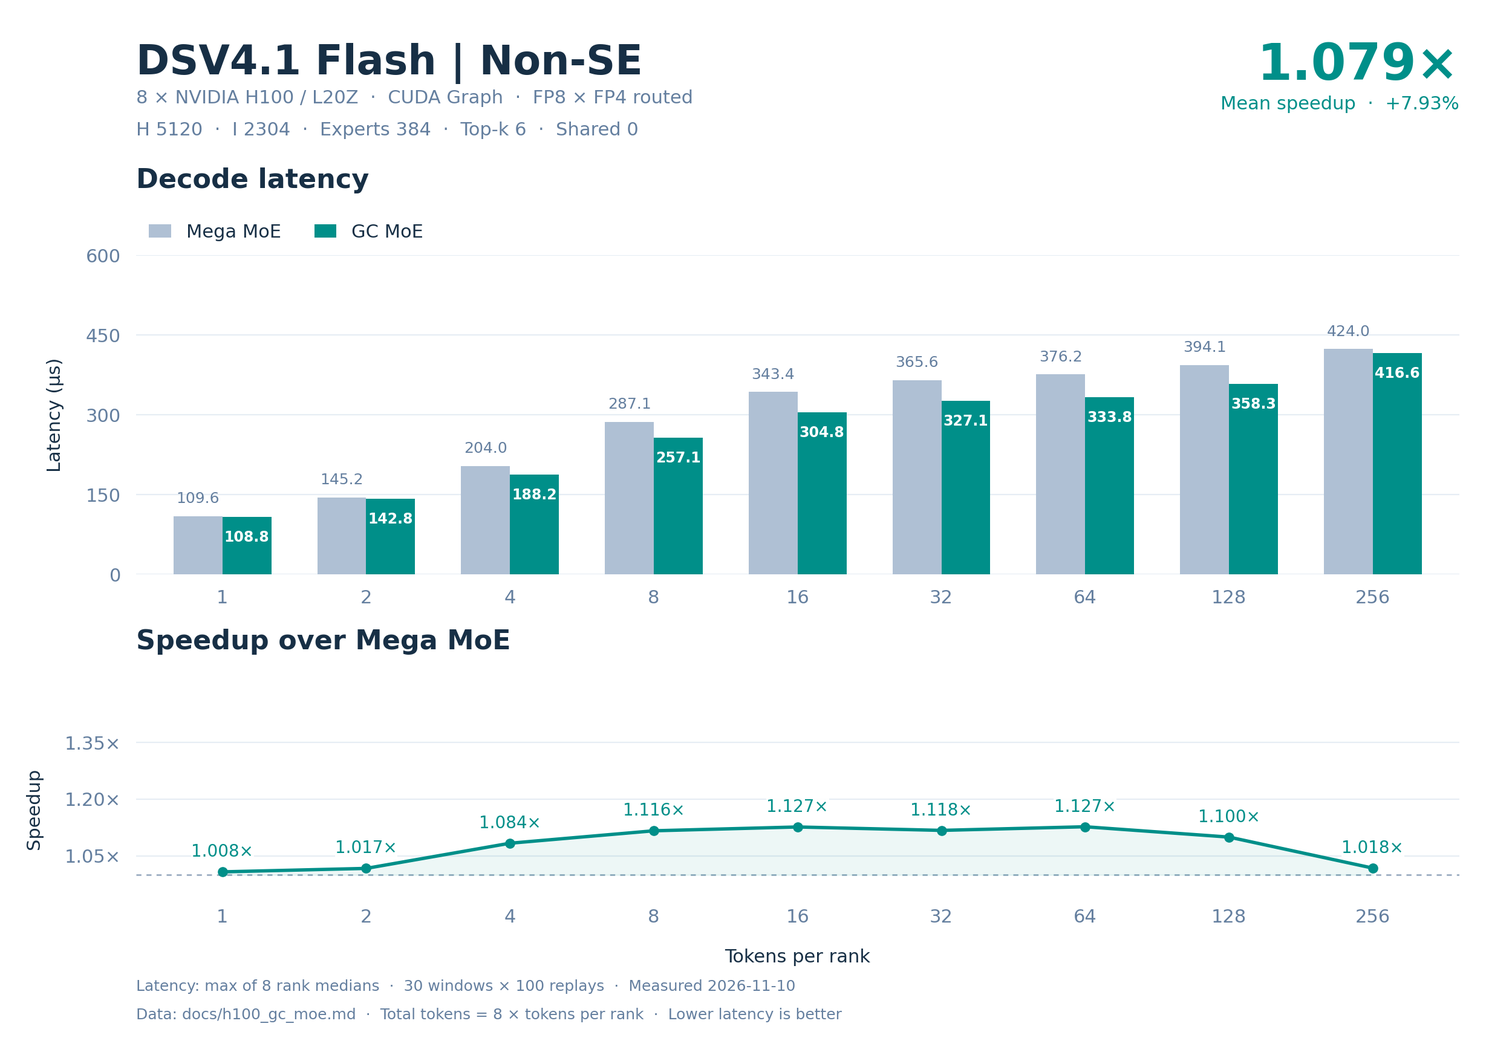
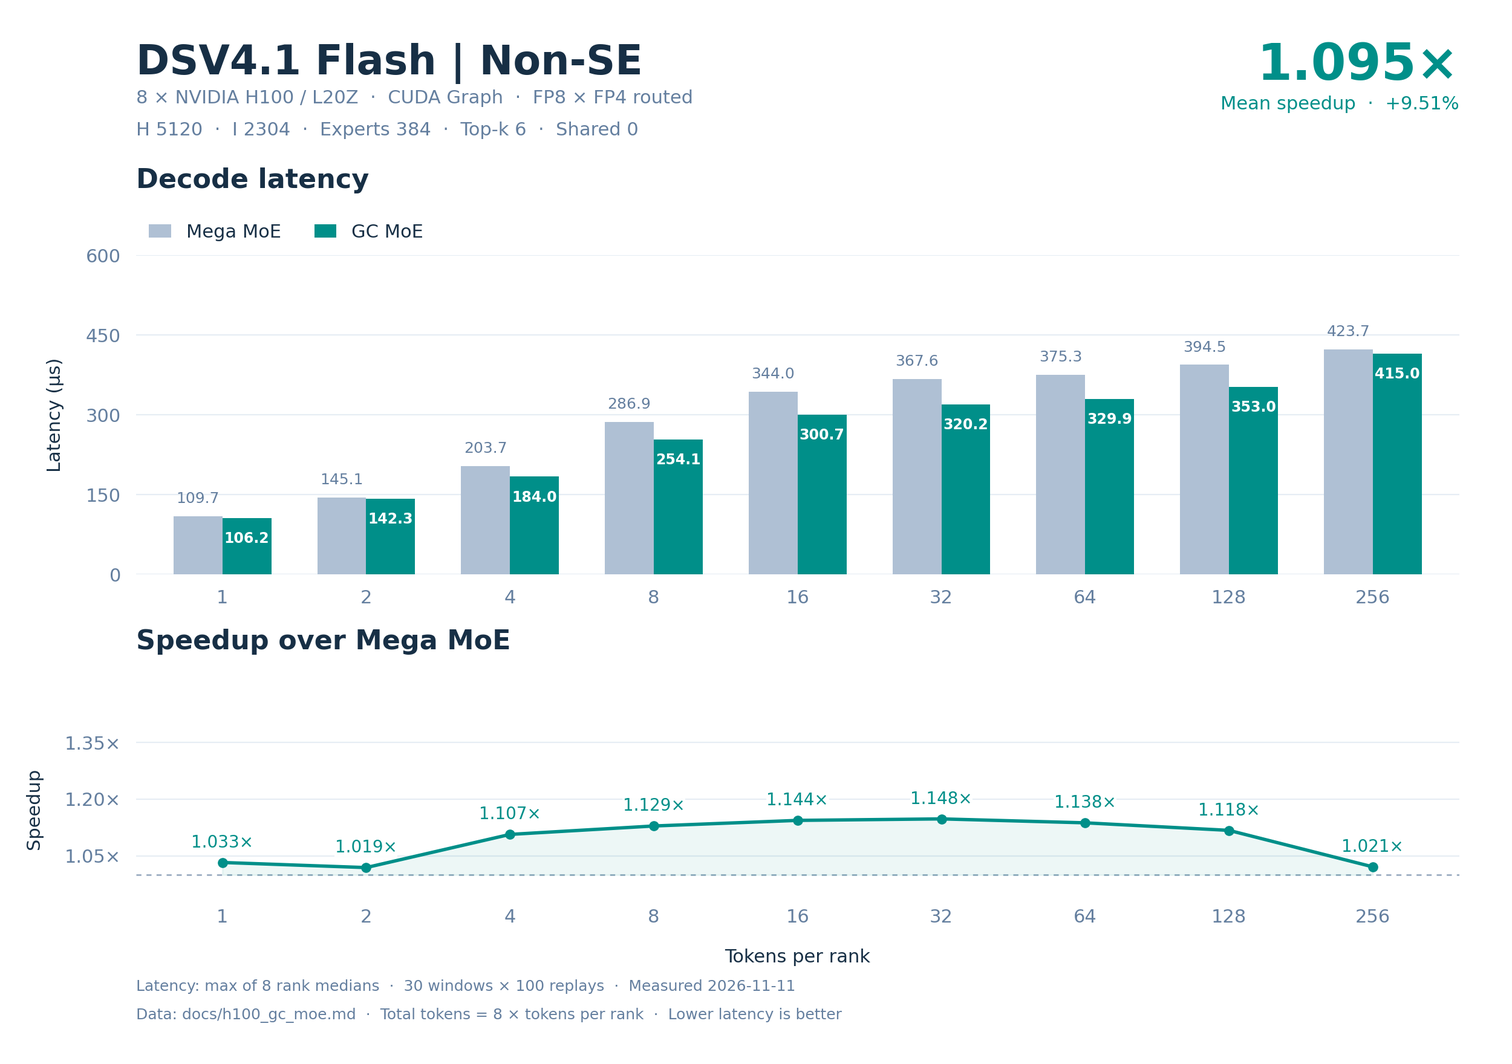
perf(sm90): coalesce routed weight stage loads

diff --git a/gc_moe/jit_kernels/impls/sm90_fp8_fp4_gc_moe.py b/gc_moe/jit_kernels/impls/sm90_fp8_fp4_gc_moe.py
@@ -86,7 +86,7 @@ _POINTER_TYPES = (Uint8, Uint64, BFloat16, Uint8, Uint8, Float32,
                   Uint8, Uint8, Float32, Uint32, Uint8, Float32, Uint8, Float32)
 
 
-def _role_specs(config, layout, schedule, has_stats):
+def _role_specs(config, layout, schedule, has_stats, weight_records=(False, False)):
     routed = get_routed_role_config(config, schedule)
     shared = get_shared_role_config(schedule) if config.shared_experts else None
     split = bool(config.shared_experts and schedule.split_shared)
@@ -111,7 +111,8 @@ def _role_specs(config, layout, schedule, has_stats):
                                            role_schedule.grids[2]))
         kernel = SM90GCMoERoleKernel(role_config, layout, role, role_schedule, has_stats,
                                     routed_n_factor=routed.n_factor if role == 2 else 1,
-                                    routed_stage_count=routed.stage_count_override if role == 2 else 0)
+                                    routed_stage_count=routed.stage_count_override if role == 2 else 0,
+                                    w1_is_record=weight_records[0], w2_is_record=weight_records[1])
         wait_for = ((4,) if split and (role == 2 or (role == 5 and not stream_shared)) else
                     ((4,) if config.shared_experts and role == 2 and schedule.tile_m >= 32 else ()))
         launch = (role, role_schedule.smem[index], role_schedule.threads[index],
@@ -176,8 +177,9 @@ def prepare_role_binaries(config, y, w1, w2, buffer, stats=None, context=None,
     # CUDA addresses. Resident JIT code does not need filesystem scans on each
     # call. CuTe resolves its compiler environment at initialization; identity
     # is audited on preparation/compilation misses, not by rescanning os.environ.
+    weight_records = (len(w1) == 2, len(w2) == 2)
     key = (config, buffer.layout, stats is not None, context.dispatch_sms,
-           context.compute_sms, context.schedule_policy)
+           context.compute_sms, context.schedule_policy, weight_records)
     prepared = _CACHE.get(key)
     if prepared is None:
         with COMPILE_LOCK:
@@ -185,15 +187,22 @@ def prepare_role_binaries(config, y, w1, w2, buffer, stats=None, context=None,
             if prepared is None:
                 schedule = get_sm90_role_config(config, context)
                 identity = _compiler_identity('sm_90a')
-                specs = _role_specs(config, buffer.layout, schedule, stats is not None)
+                specs = _role_specs(config, buffer.layout, schedule, stats is not None,
+                                    weight_records)
                 binaries = _get_or_compile_binaries(_binary_key(identity, specs), identity, specs)
                 prepared = _Prepared(binaries)
                 _CACHE[key] = prepared
+    routed_addresses = []
+    for weight, is_record in zip((w1, w2), weight_records):
+        if is_record:
+            payload = weight[0].data_ptr()
+            routed_addresses.extend((payload, payload + 16384, weight[1].data_ptr()))
+        else:
+            routed_addresses.extend(t.data_ptr() for t in weight)
+    shared_addresses = ([t.data_ptr() for pair in (shared_l1_weights, shared_l2_weights)
+                         for t in pair] if config.shared_experts else [0, 0, 0, 0])
     addresses = [buffer.buffer.data_ptr(), buffer.peer_table.data_ptr(), y.data_ptr(),
-                 *(t.data_ptr() for t in (*w1, *w2)), 0 if stats is None else stats.data_ptr(),
-                 *(t.data_ptr() for pair in (shared_l1_weights, shared_l2_weights) for t in pair)
-                 ] if config.shared_experts else [buffer.buffer.data_ptr(), buffer.peer_table.data_ptr(), y.data_ptr(),
-                 *(t.data_ptr() for t in (*w1, *w2)), 0 if stats is None else stats.data_ptr(), 0, 0, 0, 0]
+                 *routed_addresses, 0 if stats is None else stats.data_ptr(), *shared_addresses]
     arguments = [*(ctypes.c_void_p(p) for p in addresses),
                  ctypes.c_uint32(buffer.rank_idx), ctypes.c_uint32(config.tokens),
                  ctypes.c_float(config.clamp)]

diff --git a/gc_moe/impls/sm90_fp8_fp4_gc_moe.py b/gc_moe/impls/sm90_fp8_fp4_gc_moe.py
@@ -100,8 +100,9 @@ def wait_count(ptr: cute.Pointer, target: Uint32):
 
 class SM90GCMoERoleKernel:
     def __init__(self, config, layout, role, schedule, has_stats, routed_n_factor=1,
-                 routed_stage_count=0):
+                 routed_stage_count=0, w1_is_record=False, w2_is_record=False):
         self.role = role
+        self.w1_is_record, self.w2_is_record = w1_is_record, w2_is_record
         self.direct_route_scan = 0 < config.bound <= 2
         self.ranks, self.local = config.ranks, config.experts // config.ranks
         self.capacity, self.topk = config.capacity, config.topk
@@ -428,14 +429,21 @@ class SM90GCMoERoleKernel:
         k_size = self.hidden if l1 else self.intermediate
         n_size = 2 * self.intermediate if l1 else self.hidden
         input_offset = self.off_l1_acts if l1 else self.off_l2_acts
+        is_record = self.w1_is_record if l1 else self.w2_is_record
+        weight_stride = 16896 if is_record else 16384
+        offset_stride = 16896 if is_record else 512
         stage_base = stage * self.stage_bytes
         if tid == 0:
             bar = cute.recast_ptr(slab + self.smem - 128 + stage * 8, dtype=Uint64)
             cute.arch.mbarrier_arrive_and_expect_tx(bar, 16896 * self.routed_n_factor)
             for sub in cutlass.range_constexpr(self.routed_n_factor):
                 index = (Uint64(expert) * (n_size // 256) + ntile * self.routed_n_factor + sub) * (k_size // 128) + kb
-                bulk_g2s_1d(slab + stage_base + sub * 16384, weights + index * 16384, Uint32(16384), bar)
-                bulk_g2s_1d(slab + stage_base + 16384 * self.routed_n_factor + sub * 512, offsets + index * 512, Uint32(512), bar)
+                if cutlass.const_expr(is_record and self.role == 2 and self.routed_n_factor == 1):
+                    bulk_g2s_1d(slab + stage_base, weights + index * weight_stride, Uint32(16896), bar)
+                else:
+                    # N512 groups both payloads before both exponent blocks.
+                    bulk_g2s_1d(slab + stage_base + sub * 16384, weights + index * weight_stride, Uint32(16384), bar)
+                    bulk_g2s_1d(slab + stage_base + 16384 * self.routed_n_factor + sub * 512, offsets + index * offset_stride, Uint32(512), bar)
         for j in cutlass.range(tid, n * 8, 256):
             row, k = Uint32(j // 8), Uint32((j % 8) * 16)
             size = Uint32(0)
@@ -571,12 +579,18 @@ class SM90GCMoERoleKernel:
         if tid == (0 if self.max_m == 64 else 64):
             k_size = self.hidden if l1 else self.intermediate
             n_size = 2 * self.intermediate if l1 else self.hidden
+            is_record = self.w1_is_record if l1 else self.w2_is_record
+            weight_stride = 16896 if is_record else 16384
+            offset_stride = 16896 if is_record else 512
             stage_base = stage * self.stage_bytes
             full = cute.recast_ptr(slab + self.full_offset + stage * 8, dtype=Uint64)
             cute.arch.mbarrier_arrive_and_expect_tx(full, 16896)
             index = (Uint64(expert) * (n_size // 256) + ntile) * (k_size // 128) + kb
-            bulk_g2s_1d(slab + stage_base, weights + index * 16384, Uint32(16384), full)
-            bulk_g2s_1d(slab + stage_base + 16384, offsets + index * 512, Uint32(512), full)
+            if cutlass.const_expr(is_record and self.role == 2 and self.routed_n_factor == 1):
+                bulk_g2s_1d(slab + stage_base, weights + index * weight_stride, Uint32(16896), full)
+            else:
+                bulk_g2s_1d(slab + stage_base, weights + index * weight_stride, Uint32(16384), full)
+                bulk_g2s_1d(slab + stage_base + 16384, offsets + index * offset_stride, Uint32(512), full)
 
     @cute.jit
     def _stage_activation(self, base: Uint64, slab: cute.Pointer, expert: Uint32,

diff --git a/gc_moe/sm90_gc/__init__.py b/gc_moe/sm90_gc/__init__.py
@@ -92,9 +92,11 @@ def _transform(raw, scale_2=None, paired=False):
     if scale_2 is not None and (scale_2.shape != (e,) or scale_2.dtype != torch.float32
                                or scale_2.device != packed.device):
         raise ValueError('secondary checkpoint scale must be FP32 [E] on the weight device')
-    data = torch.empty((e, n // 256, k // 128, 4, 256, 16), device=packed.device, dtype=torch.int8)
-    # Two 4-bit relative exponents per byte: 512B per (ntile, kb) weight stage.
-    offsets = torch.empty((e, n // 256, k // 128, 128, 4), device=packed.device, dtype=torch.uint8)
+    # One contiguous stage record: unchanged FP4 bytes, then 512B of packed
+    # relative exponents. Views only organize transform writes, with no copy.
+    record = torch.empty((e, n // 256, k // 128, 16896), device=packed.device, dtype=torch.int8)
+    data = record[..., :16384].view(e, n // 256, k // 128, 4, 256, 16)
+    offsets = record[..., 16384:].view(torch.uint8).view(e, n // 256, k // 128, 128, 4)
     secondary = torch.empty(e, device=packed.device, dtype=torch.float32)
     lut = torch.tensor(_DOWNSCALE, dtype=torch.uint8, device='cpu',
                        pin_memory=True).to(packed.device, non_blocking=True)
@@ -136,7 +138,7 @@ def _transform(raw, scale_2=None, paired=False):
         nibbles = (flat[..., 0::2] & 0x0F) | (flat[..., 1::2] << 4)
         offsets[expert].copy_(nibbles.reshape(offsets[expert].shape))
         secondary[expert] = torch.exp2(base.float() - 128) * (1 if scale_2 is None else scale_2[expert])
-    return data, offsets, secondary
+    return record, secondary
 
 
 def transform_weights_for_gc_moe_sm90(l1_weights, l2_weights,

diff --git a/gc_moe/runtime/sm90_gc_moe.py b/gc_moe/runtime/sm90_gc_moe.py
@@ -240,12 +240,17 @@ class _ChildGraph:
                 params.kernel.blockDimY = params.kernel.blockDimZ = 1
                 params.kernel.sharedMemBytes = binary.smem_bytes
                 params.kernel.kernelParams = arguments[index].pointer
-                # Dispatch is an independent root. Compute dependencies retire
-                # shared work or order routed after split shared L2 has started.
-                # Device acquires still protect every dispatch publication.
-                # Finalize/cleanup always joins every local producer.
+                # In the primary context, compute roots wait until every
+                # dispatch CTA has started, without waiting for completion.
+                # Existing shared dependencies carry this order transitively.
+                # Device acquires still protect every dispatch publication;
+                # finalize/cleanup always joins every local producer.
                 prerequisites = getattr(binary, 'wait_for', ())
                 launch_edges = getattr(binary, 'launch_after', ())
+                if (owner.primary_ctx_roles and binary.role in (2, 4, 5)
+                        and not prerequisites and not launch_edges):
+                    launch_edges = ((1, cu.CU_GRAPH_KERNEL_NODE_PORT_LAUNCH_ORDER, 0,
+                                     cu.CUgraphDependencyType.CU_GRAPH_DEPENDENCY_TYPE_PROGRAMMATIC),)
                 launch_roles = tuple(edge[0] for edge in launch_edges)
                 if any(role not in role_nodes for role in (*prerequisites, *launch_roles)):
                     raise ValueError('kernel dependency must reference an earlier graph node')

diff --git a/gc_moe/apis/sm90_gc_moe.py b/gc_moe/apis/sm90_gc_moe.py
@@ -42,11 +42,17 @@ def validate_call(y, w1, w2, buffer, stats, recipe, activation, clamp,
     local = buffer.num_experts // buffer.group.size()
     for name, weight, n, k in (('routed W1', w1, 2 * buffer.intermediate_hidden, buffer.hidden),
                                ('routed W2', w2, buffer.hidden, buffer.intermediate_hidden)):
-        shapes = ((local, n // 256, k // 128, 4, 256, 16), (local, n // 256, k // 128, 128, 4), (local,))
-        if not isinstance(weight, (tuple, list)) or len(weight) != 3:
-            raise ValueError(f'{name} needs the data/offset/secondary tuple from '
+        if not isinstance(weight, (tuple, list)) or len(weight) not in (2, 3):
+            raise ValueError(f'{name} needs the record/secondary or data/offset/secondary tuple from '
                              'transform_weights_for_gc_moe_sm90')
-        for tensor, shape, dtype in zip(weight, shapes, (torch.int8, torch.uint8, torch.float32)):
+        if len(weight) == 2:
+            shapes = ((local, n // 256, k // 128, 16896), (local,))
+            dtypes = (torch.int8, torch.float32)
+        else:
+            shapes = ((local, n // 256, k // 128, 4, 256, 16),
+                      (local, n // 256, k // 128, 128, 4), (local,))
+            dtypes = (torch.int8, torch.uint8, torch.float32)
+        for tensor, shape, dtype in zip(weight, shapes, dtypes):
             if (not isinstance(tensor, torch.Tensor) or tuple(tensor.shape) != shape
                     or tensor.dtype != dtype or tensor.device != device
                     or not tensor.is_contiguous() or tensor.data_ptr() % 16):

diff --git a/gc_moe/__init__.py b/gc_moe/__init__.py
@@ -38,4 +38,4 @@ __all__ = [
     'transform_weights_for_gc_moe',
 ]
 
-__version__ = '0.6.0'
+__version__ = '0.6.1'

diff --git a/docs/h100_gc_moe.md b/docs/h100_gc_moe.md
@@ -1,6 +1,6 @@
 # H100 / L20Z DSV4.1-Flash Routed experts 精度与性能
 
-8 卡 **47/47 精度用例通过**（376 rank-case）；GC/BF16 最小 cosine **0.977384567**、GC 最大 processed diff **1.36215387e-05**。GC 相对 Mega 的九点 decode 平均加速 **1.079320×**，9/9 点更快。
+8 卡 **47/47 精度用例通过**（376 rank-case）；GC/BF16 最小 cosine **0.977384567**、GC 最大 processed diff **1.36215387e-05**。GC 相对 Mega 的九点 decode 平均加速 **1.095114×**，9/9 点更快。
 
 ![8 卡 H100 的延迟与逐点加速](h100_dsv41_flash_gc_moe.png)
 
@@ -17,28 +17,28 @@
 | Shared experts | 0 |
 | 数值格式 | Routed 输入 E4M3 FP8 / K128 FP32 scale；权重 FP4 E2M1 / K32 二次幂 scale，GC Humming 布局使用 4-bit 相对指数与 FP32 secondary scale；输出 BF16 |
 | 激活 | SwiGLU；alpha=1，clamp=10，fast_math=True |
-| 软件 | Python 3.12.3；PyTorch 2.11.0+cu130；DeepGEMM 2.8.2；GC MoE 0.5.2；CUTLASS DSL 4.8.1 |
+| 软件 | Python 3.12.3；PyTorch 2.11.0+cu130；DeepGEMM 2.8.2；GC MoE 0.6.1；CUTLASS DSL 4.8.1 |
 | CUDA | PyTorch CUDA 13.0；nvcc 13.2.51；CUDA Python/bindings 13.2.0；驱动 580.105.08 |
-| 数据日期 | 2026-11-10 |
+| 数据日期 | 2026-11-11 |
 
 Decode 点为每 rank 1、2、4、8、16、32、64、128、256 tokens。延迟来自 CUDA Graph replay：10 个预热窗口、30 个计时窗口，每窗口 100 次调用，窗口间刷新 L2。单次延迟先在每个 rank 上取 30 个窗口的中位数，再取 8 个 rank 中的最大值，单位 µs。输入准备和权重转换不计入算子延迟。
 
 加速比使用未舍入的“对照算子延迟 / GC 算子延迟”；decode 平均加速为九个逐点加速比的等权算术平均，不是平均延迟之比。表内延迟保留六位小数，加速比保留六位小数。
-Green Context：每卡 4 个 dispatch SM、128 个 compute SM。
+Green Context（脚本默认；GC_MOE_PRIMARY_CTX 未设置）：每卡 4 个 dispatch SM、128 个 compute SM。
 
 ## Decode 延迟与逐点加速
 
 | Tokens/rank | Total tokens | Mega (µs) | GC (µs) | Mega/GC |
 | --- | --- | --- | --- | --- |
-| 1 | 8 | 109.610081 | 108.751040 | 1.007899× |
-| 2 | 16 | 145.213919 | 142.782559 | 1.017028× |
-| 4 | 32 | 203.965921 | 188.228483 | 1.083608× |
-| 8 | 64 | 287.059202 | 257.112961 | 1.116471× |
-| 16 | 128 | 343.350086 | 304.778881 | 1.126555× |
-| 32 | 256 | 365.572319 | 327.126560 | 1.117526× |
-| 64 | 512 | 376.226883 | 333.787193 | 1.127146× |
-| 128 | 1024 | 394.056168 | 358.292313 | 1.099818× |
-| 256 | 2048 | 423.992805 | 416.565285 | 1.017830× |
+| 1 | 8 | 109.652958 | 106.179361 | 1.032714× |
+| 2 | 16 | 145.051041 | 142.319198 | 1.019195× |
+| 4 | 32 | 203.709755 | 184.039202 | 1.106882× |
+| 8 | 64 | 286.927195 | 254.109602 | 1.129147× |
+| 16 | 128 | 343.977280 | 300.693121 | 1.143948× |
+| 32 | 256 | 367.578087 | 320.216007 | 1.147907× |
+| 64 | 512 | 375.289135 | 329.920959 | 1.137512× |
+| 128 | 1024 | 394.481754 | 352.984161 | 1.117562× |
+| 256 | 2048 | 423.747520 | 414.968643 | 1.021156× |
 
 ## 模型估算的有效吞吐
 
@@ -54,43 +54,43 @@ NVLink 分子是远程 routed assignment 的单向有用载荷：每个 assignme
 
 | Tokens/rank | Total tokens | Mega (GB/s) | GC (GB/s) |
 | --- | --- | --- | --- |
-| 1 | 8 | 9685.999618 | 9762.510821 |
-| 2 | 16 | 13403.806037 | 13632.051479 |
-| 4 | 32 | 16591.571654 | 17978.762526 |
-| 8 | 64 | 19339.977111 | 21592.526423 |
-| 16 | 128 | 21709.331377 | 24456.749673 |
-| 32 | 256 | 22749.311058 | 25422.938433 |
-| 64 | 512 | 22575.381998 | 25445.750378 |
-| 128 | 1024 | 21553.946615 | 23705.408408 |
-| 256 | 2048 | 20032.098399 | 20389.278491 |
+| 1 | 8 | 9682.212137 | 9998.960123 |
+| 2 | 16 | 13418.857192 | 13676.434607 |
+| 4 | 32 | 16612.435673 | 18388.012815 |
+| 8 | 64 | 19348.874922 | 21847.731675 |
+| 16 | 128 | 21669.747512 | 24789.063269 |
+| 32 | 256 | 22625.174616 | 25971.588591 |
+| 64 | 512 | 22631.791886 | 25743.940650 |
+| 128 | 1024 | 21530.693137 | 24061.888689 |
+| 256 | 2048 | 20043.693922 | 20467.728681 |
 
 ### NVLink 单向有用载荷有效带宽
 
 | Tokens/rank | Total tokens | Mega (GB/s) | GC (GB/s) |
 | --- | --- | --- | --- |
-| 1 | 8 | 5.663713 | 5.708451 |
-| 2 | 16 | 8.657021 | 8.804437 |
-| 4 | 32 | 12.478947 | 13.522289 |
-| 8 | 64 | 18.057878 | 20.161100 |
-| 16 | 128 | 30.330326 | 34.168772 |
-| 32 | 256 | 57.779867 | 64.570483 |
-| 64 | 512 | 110.472063 | 124.518139 |
-| 128 | 1024 | 212.562185 | 233.779618 |
-| 256 | 2048 | 392.948177 | 399.954596 |
+| 1 | 8 | 5.661498 | 5.846711 |
+| 2 | 16 | 8.666742 | 8.833102 |
+| 4 | 32 | 12.494640 | 13.830097 |
+| 8 | 64 | 18.066186 | 20.399387 |
+| 16 | 128 | 30.275023 | 34.633050 |
+| 32 | 256 | 57.464579 | 65.963973 |
+| 64 | 512 | 110.748104 | 125.977325 |
+| 128 | 1024 | 212.332862 | 237.295180 |
+| 256 | 2048 | 393.175634 | 401.493469 |
 
 ### 有效计算吞吐
 
 | Tokens/rank | Total tokens | Mega (TFLOPS) | GC (TFLOPS) |
 | --- | --- | --- | --- |
-| 1 | 8 | 30.995199 | 31.240035 |
-| 2 | 16 | 46.791468 | 47.588252 |
-| 4 | 32 | 66.626547 | 72.197070 |
-| 8 | 64 | 94.681131 | 105.708751 |
-| 16 | 128 | 158.317071 | 178.352843 |
-| 32 | 256 | 297.386739 | 332.337306 |
-| 64 | 512 | 577.929779 | 651.411210 |
-| 128 | 1024 | 1103.562067 | 1213.716910 |
-| 256 | 2048 | 2051.286876 | 2087.862117 |
+| 1 | 8 | 30.983079 | 31.996672 |
+| 2 | 16 | 46.844011 | 47.743190 |
+| 4 | 32 | 66.710330 | 73.840491 |
+| 8 | 64 | 94.724691 | 106.958138 |
+| 16 | 128 | 158.028402 | 180.776267 |
+| 32 | 256 | 295.763985 | 339.509447 |
+| 64 | 512 | 579.373872 | 659.044881 |
+| 128 | 1024 | 1102.371489 | 1231.968701 |
+| 256 | 2048 | 2052.474258 | 2095.895417 |
 
 ### 吞吐模型的分子
 
@@ -116,29 +116,29 @@ Routed 使用两算子共同的原始量化输入存储，每个 expert 为 2211
 
 | Tokens/rank | rank 0 | rank 1 | rank 2 | rank 3 | rank 4 | rank 5 | rank 6 | rank 7 |
 | --- | --- | --- | --- | --- | --- | --- | --- | --- |
-| 1 | 109.610081 | 109.584479 | 109.563999 | 109.594240 | 109.515519 | 109.586883 | 109.570718 | 109.549117 |
-| 2 | 145.195680 | 145.208321 | 145.188479 | 145.157762 | 145.168161 | 145.163198 | 145.213919 | 145.176158 |
-| 4 | 203.937435 | 203.958235 | 203.965921 | 203.927364 | 203.934402 | 203.954725 | 203.935366 | 203.922081 |
-| 8 | 286.910238 | 287.059202 | 287.052965 | 286.909599 | 286.980000 | 287.047195 | 286.933279 | 286.987352 |
-| 16 | 343.214073 | 343.311672 | 343.344955 | 343.317909 | 343.244324 | 343.350086 | 343.232155 | 343.211994 |
-| 32 | 365.499363 | 365.522079 | 365.564480 | 365.393124 | 365.572319 | 365.484810 | 365.364475 | 365.553455 |
-| 64 | 376.212482 | 376.226883 | 376.221924 | 376.187038 | 376.182556 | 376.154385 | 376.110401 | 376.177273 |
-| 128 | 393.968334 | 394.056168 | 393.928337 | 394.017601 | 393.996639 | 394.006233 | 394.008007 | 393.972473 |
-| 256 | 423.911514 | 423.959522 | 423.925591 | 423.992805 | 423.964958 | 423.894253 | 423.969440 | 423.965435 |
+| 1 | 109.652958 | 109.630718 | 109.635038 | 109.437919 | 109.538879 | 109.562082 | 109.544640 | 109.529119 |
+| 2 | 145.051041 | 145.018721 | 144.978881 | 145.007682 | 144.943681 | 144.954562 | 144.993443 | 144.986238 |
+| 4 | 203.709755 | 203.681765 | 203.673601 | 203.654718 | 203.655357 | 203.704958 | 203.658562 | 203.669596 |
+| 8 | 286.927195 | 286.877594 | 286.878242 | 286.777277 | 286.883364 | 286.759844 | 286.850243 | 286.838398 |
+| 16 | 343.977280 | 343.934402 | 343.947201 | 343.944473 | 343.898544 | 343.917274 | 343.829765 | 343.893452 |
+| 32 | 367.254086 | 367.362080 | 367.548313 | 367.578087 | 367.560482 | 367.496319 | 367.490730 | 367.469444 |
+| 64 | 375.149918 | 375.280170 | 375.226231 | 375.289135 | 375.256805 | 375.167694 | 375.235348 | 375.230560 |
+| 128 | 394.481754 | 394.465904 | 394.367828 | 394.427834 | 394.365273 | 394.328327 | 394.241905 | 394.253273 |
+| 256 | 423.662395 | 423.744640 | 423.747520 | 423.734570 | 423.615513 | 423.665447 | 423.677750 | 423.676796 |
 
 ### GC
 
 | Tokens/rank | rank 0 | rank 1 | rank 2 | rank 3 | rank 4 | rank 5 | rank 6 | rank 7 |
 | --- | --- | --- | --- | --- | --- | --- | --- | --- |
-| 1 | 108.727684 | 108.689599 | 108.751040 | 108.641601 | 108.750882 | 108.689756 | 108.355041 | 108.708000 |
-| 2 | 142.753439 | 142.781281 | 142.782559 | 142.748003 | 142.753119 | 142.670722 | 142.746558 | 142.639356 |
-| 4 | 188.210564 | 188.228483 | 188.186245 | 188.187675 | 188.193760 | 188.155842 | 188.220320 | 188.143196 |
-| 8 | 257.044954 | 257.055511 | 257.112961 | 257.093601 | 257.060003 | 257.077284 | 257.011194 | 257.069597 |
-| 16 | 304.761925 | 304.714079 | 304.778881 | 304.502878 | 304.744797 | 304.677124 | 304.716644 | 304.756165 |
-| 32 | 327.081280 | 327.060318 | 327.119846 | 326.923351 | 327.126560 | 327.037907 | 327.047520 | 327.125454 |
-| 64 | 333.764801 | 333.757763 | 333.787193 | 333.652000 | 333.724785 | 333.617115 | 333.754387 | 333.762722 |
-| 128 | 358.197136 | 358.292313 | 358.132954 | 358.132324 | 358.263359 | 358.236485 | 358.175373 | 358.271523 |
-| 256 | 416.565285 | 416.496811 | 416.511364 | 416.516953 | 416.379833 | 416.532974 | 416.253605 | 416.525269 |
+| 1 | 106.179361 | 106.153922 | 106.128321 | 105.921278 | 106.114240 | 106.076803 | 106.042881 | 106.129122 |
+| 2 | 142.319198 | 142.309442 | 142.267523 | 142.172318 | 142.270718 | 142.256484 | 142.259679 | 142.191520 |
+| 4 | 184.039202 | 183.997765 | 183.995838 | 184.016485 | 183.995523 | 183.956957 | 183.950081 | 183.958559 |
+| 8 | 253.811207 | 254.109602 | 253.981438 | 253.787365 | 254.086561 | 254.080000 | 254.087038 | 253.935843 |
+| 16 | 300.350561 | 300.666561 | 300.591364 | 300.693121 | 300.631361 | 300.680637 | 300.638876 | 300.627365 |
+| 32 | 319.802876 | 320.039997 | 320.200958 | 320.216007 | 320.171204 | 320.061607 | 320.155354 | 320.126572 |
+| 64 | 329.916954 | 329.846096 | 329.920959 | 329.870071 | 329.901123 | 329.792309 | 329.836807 | 329.754238 |
+| 128 | 352.984161 | 352.953129 | 352.957764 | 352.955990 | 352.940311 | 352.910233 | 352.862225 | 352.892494 |
+| 256 | 414.965916 | 414.940796 | 414.968643 | 414.960957 | 414.851360 | 414.595203 | 414.880486 | 414.847851 |
 
 ## 精度
 

diff --git a/README.md b/README.md
@@ -10,7 +10,7 @@ experts (SE), with FP8 activations, packed FP4 routed weights, FP8 shared
 weights and BF16 outputs.
 
 GPU kernels are JIT compiled on first use. Installation builds a Python wheel;
-it does not compile CUDA kernels. The current package version is `0.6.0`.
+it does not compile CUDA kernels. The current package version is `0.6.1`.
 
 ## Performance
 
@@ -167,7 +167,7 @@ assembler compatible with the generated PTX.
 For editable development, use `python -m pip install -e .` instead of installing
 the wheel. Wheel versions include the Git revision for a clean tree, or
 `+local` for a dirty tree or a source copy without Git metadata. Set
-`GC_MOE_USE_LOCAL_VERSION=0` to build the plain `0.6.0` version.
+`GC_MOE_USE_LOCAL_VERSION=0` to build the plain `0.6.1` version.
 
 ## Interfaces
 
